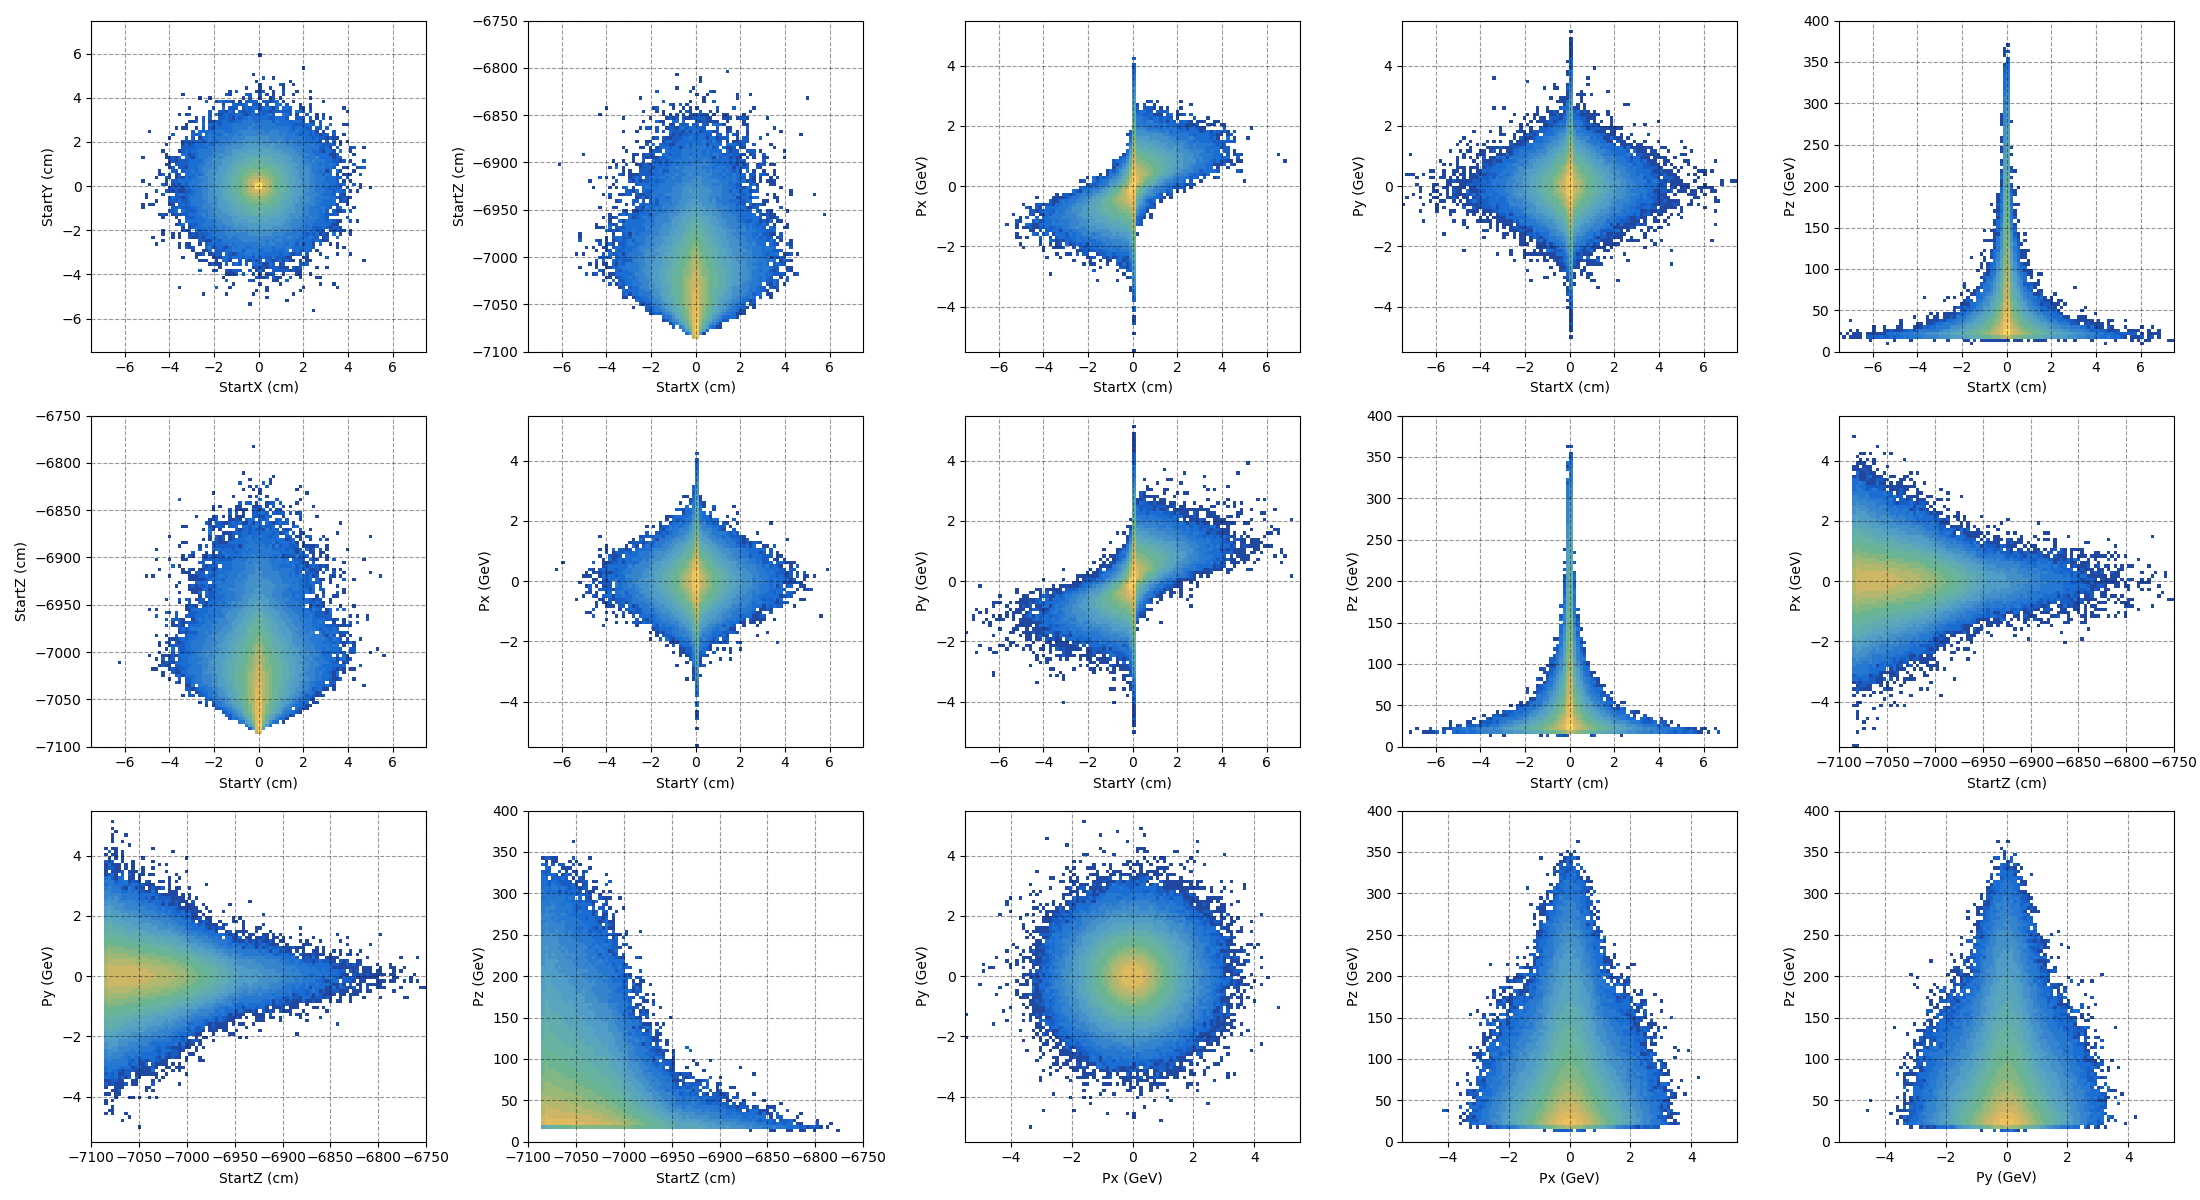
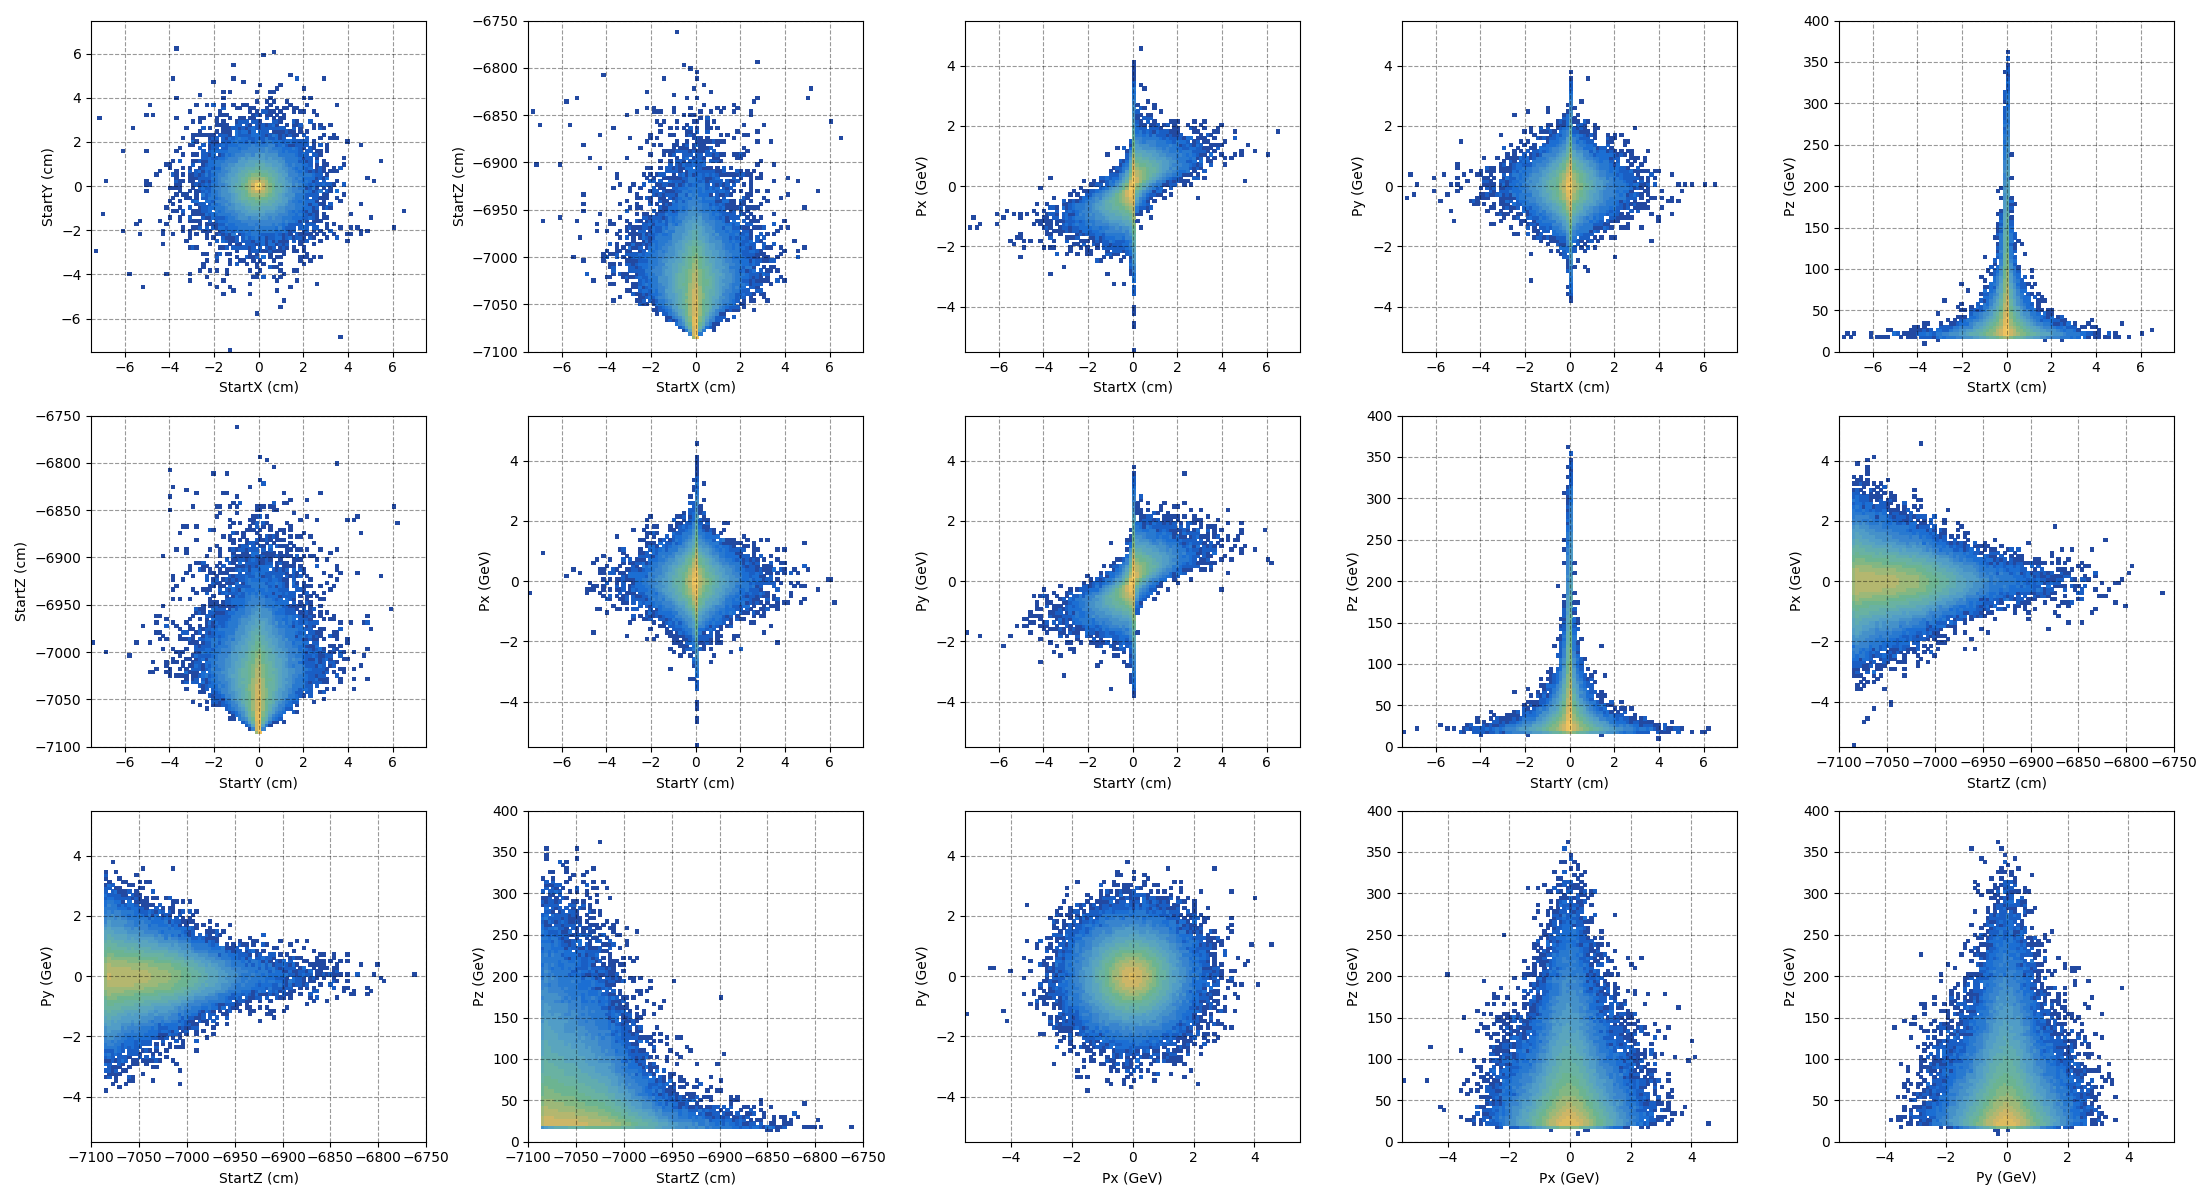
ready for large gen

diff --git a/Comparing_generators.py b/Comparing_generators.py
@@ -24,7 +24,12 @@ from SHiP_GAN_module import muGAN
 muGAN = muGAN()
 ########################################################################################################################################################
 
-muGAN.compare_generators(size=int(1E3), size_enhanced = int(1E3),
-	generator_list=['generator.h5','generator_new.h5','generator_new2.h5'],
+# muGAN.compare_generators(size=int(1E6), size_enhanced = int(1E5),
+# 	generator_list=['generator.h5','generator_best.h5'],
+# 	output_folder='Compare_generators',
+# 	training_data_location='/mnt/storage/scratch/am13743/real_data.npy')
+
+muGAN.compare_generators(size=int(1E6), size_enhanced = int(1E5),
+	generator_list=['generator.h5','generator_best.h5'],
 	output_folder='Compare_generators',
-	training_data_location='/mnt/storage/scratch/am13743/real_data.npy')
+	training_data_location='/Users/am13743/Desktop/Data_for_GAN_paper_plots/real_data.npy')

diff --git a/Generate_physical_muons.py b/Generate_physical_muons.py
@@ -20,7 +20,6 @@ for file_id in range(0, int(1E30)):
 
 	# 	muGAN.plot_p_pt(data=muon_kinematic_vectors, filename='P')
 
+	random_id = np.random.randint(10000000, high=99999999)
 
-	muGAN.save_to_ROOT(data=muon_kinematic_vectors,filename='/mnt/storage/scratch/am13743/AUX_GANs_output/muons_%d.root'%file_id)
-
-	# quit()
+	muGAN.save_to_ROOT(data=muon_kinematic_vectors,filename='/mnt/storage/scratch/am13743/AUX_GANs_output/muons_%d.root'%random_id)

diff --git a/Tune_auxiliary_inputs.py b/Tune_auxiliary_inputs.py
@@ -36,7 +36,7 @@ muGAN = muGAN()
 # np.save('SHiP_GAN_module/data_files/tuned_aux_parameters.npy',initial_values)
 
 
-# muGAN.tune(size=int(1E5), initial_values=initial_values,
+# muGAN.tune(size=int(1E6),
 # 	output_folder='Tuning_results',
 # 	training_data_location='/Users/am13743/Desktop/Data_for_GAN_paper_plots/real_data.npy')
 
